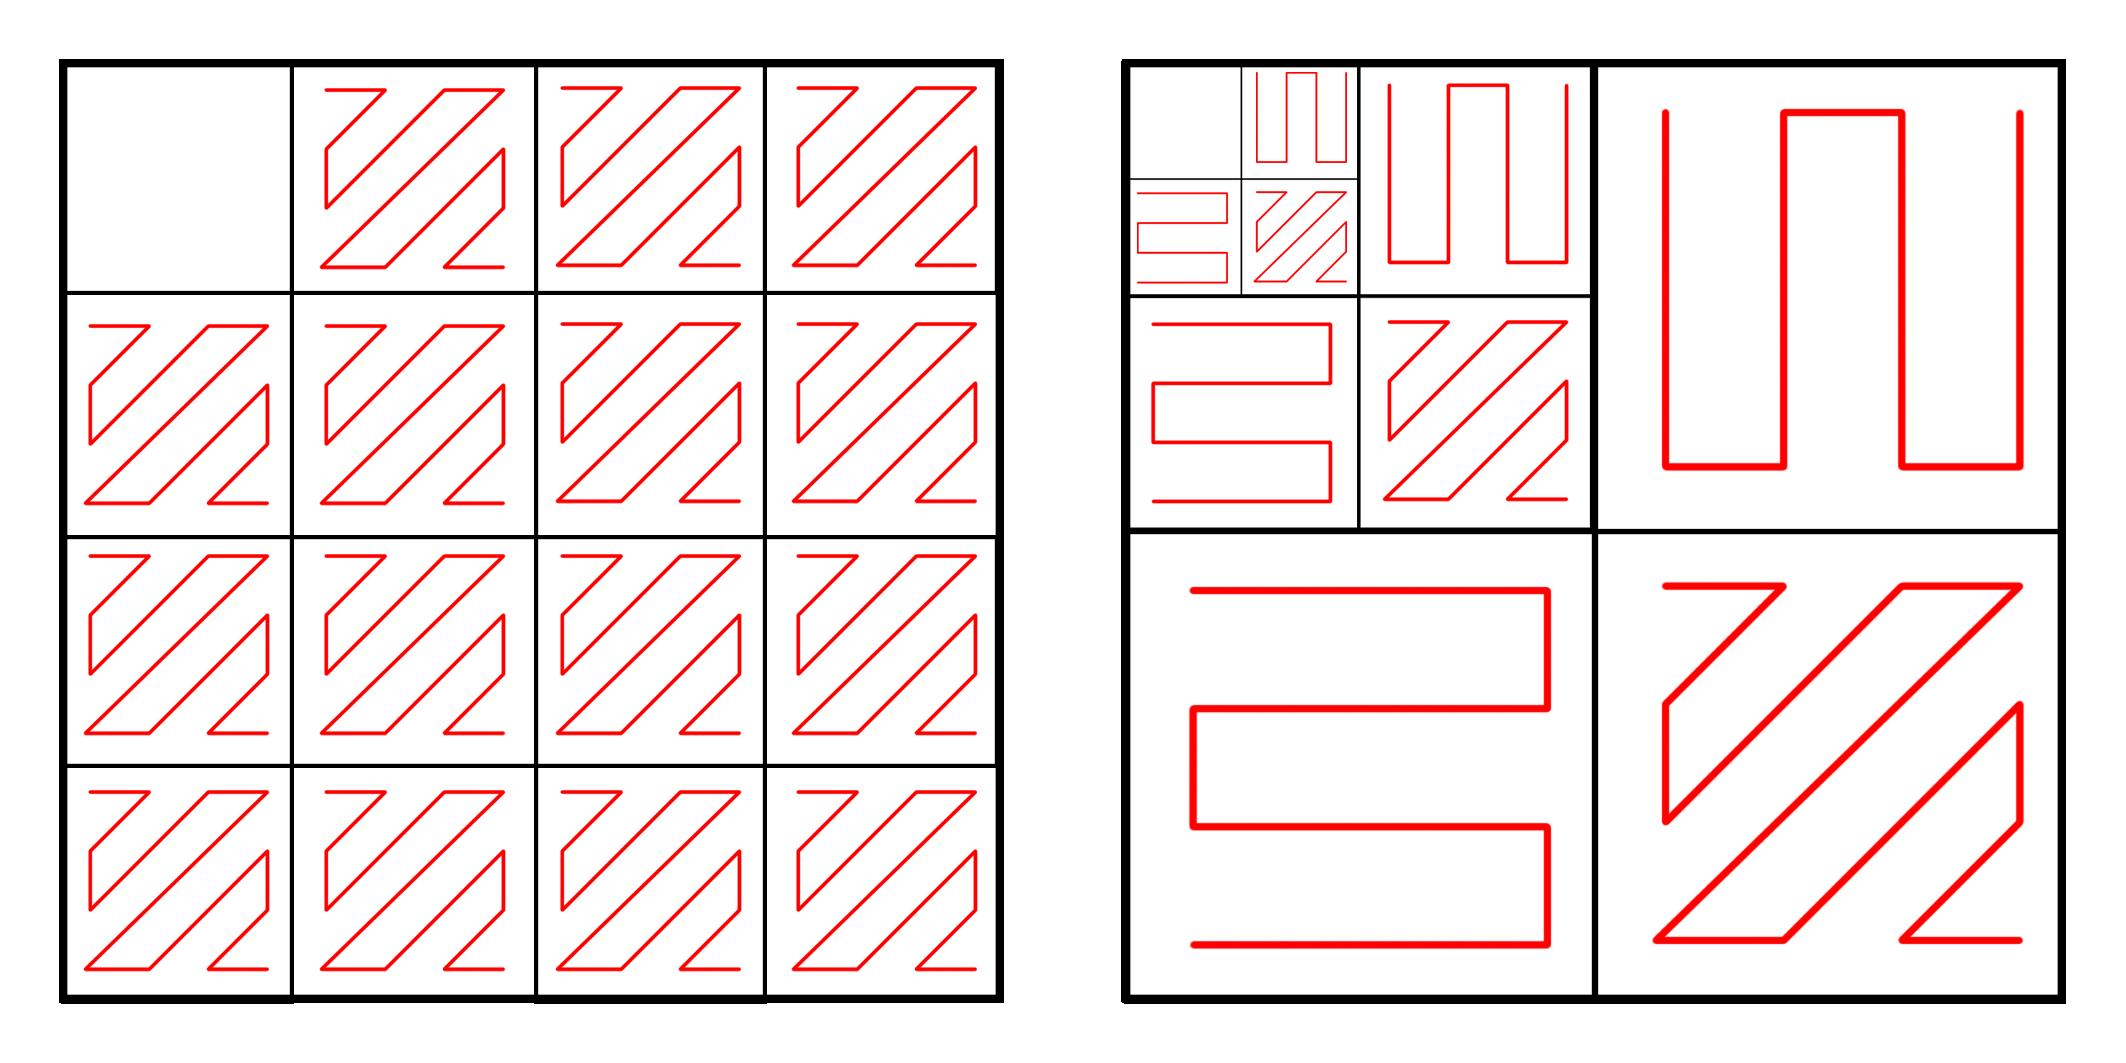
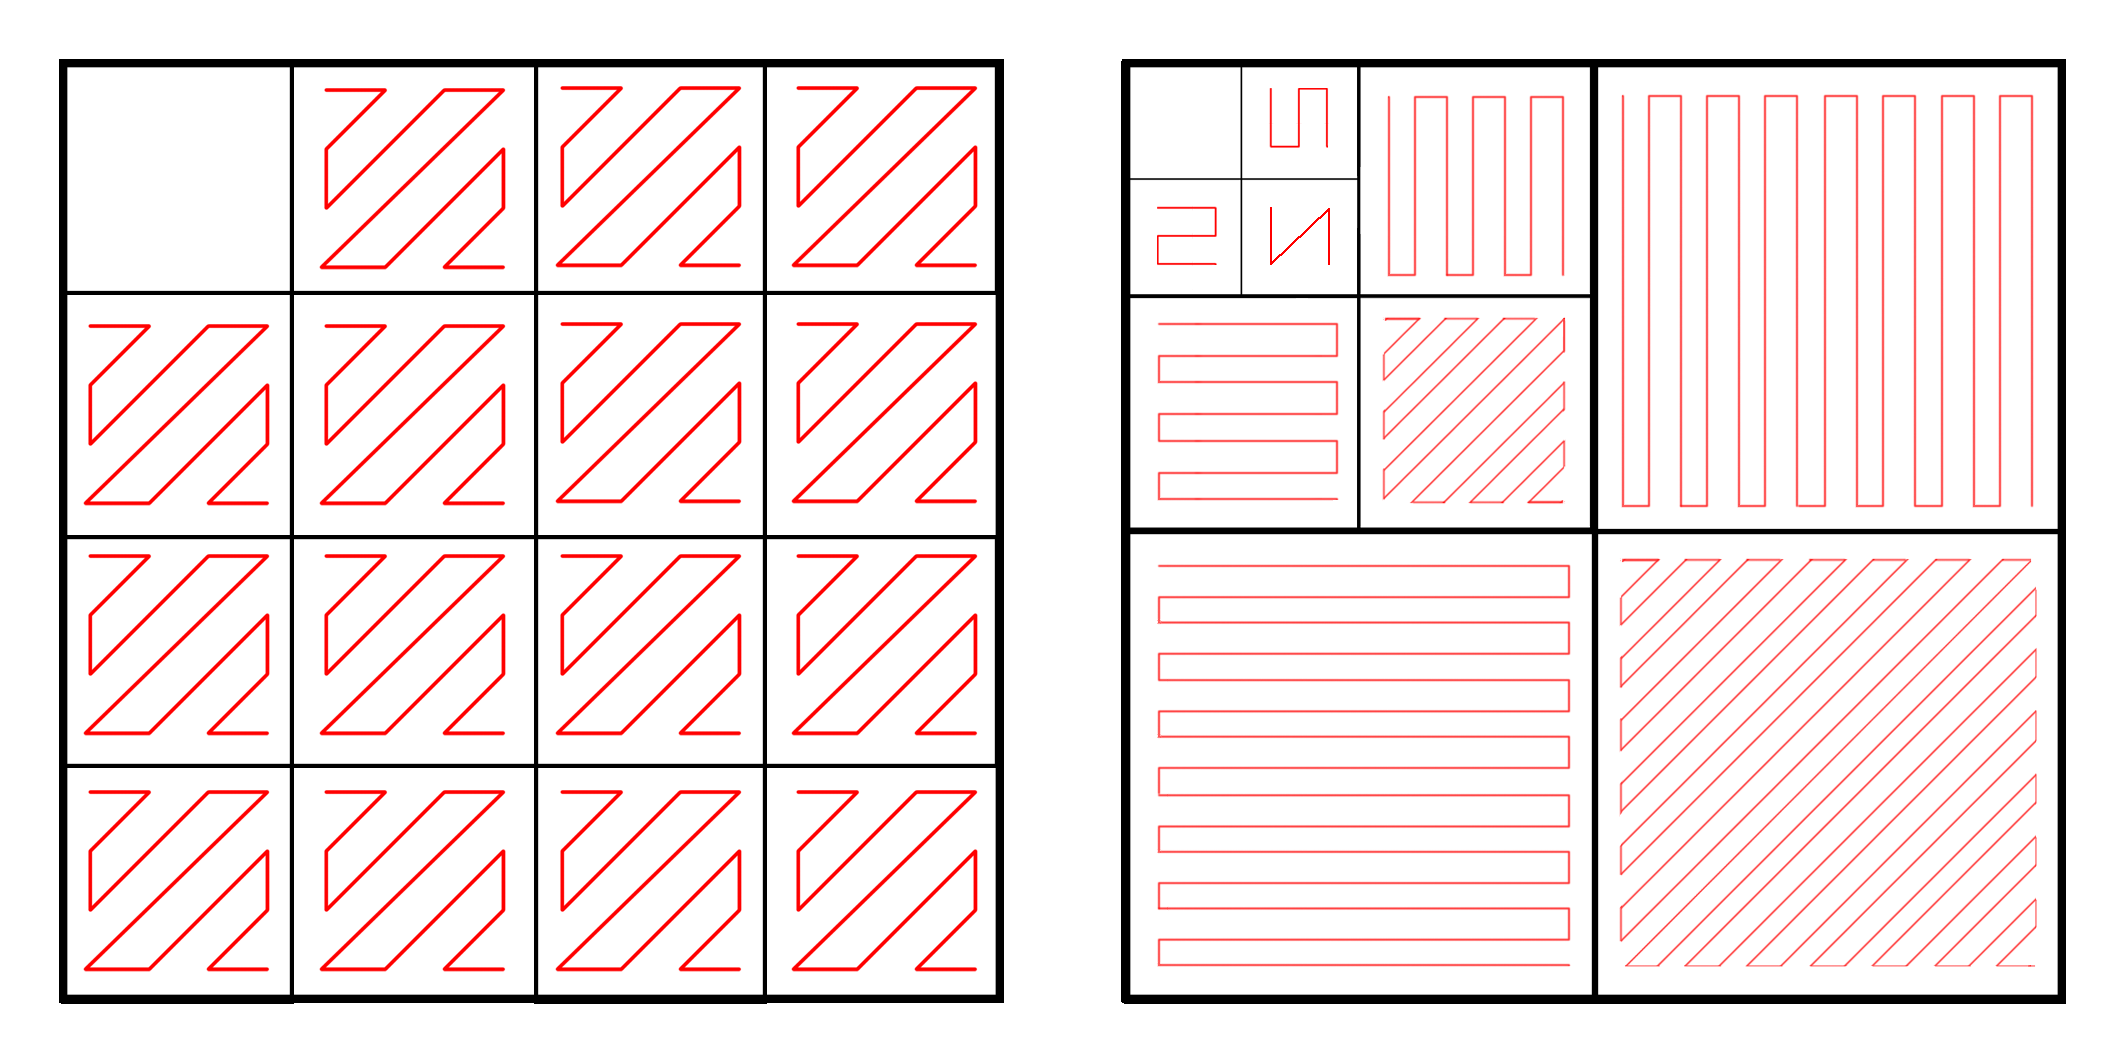
slight fix to dwtscan (improved ssim), improve subblocks

Changed region(s): [[0.5278, 0.0621, 0.9624, 0.4967], [0.5278, 0.5278, 0.9624, 0.9313], [0.5898, 0.0621, 0.6209, 0.1552]]

diff --git a/DWT_experiments.m b/DWT_experiments.m
@@ -172,7 +172,7 @@ m = 2; %number of sub-images
 E = @(s) sum(s(:).^2);
 log2 = @(s) log(s)/log(2);
 S_MAT = [];
-for m = [2]
+for m = [1 2]
     ens = zeros(m,m);
     X_recon = zeros(256,256);
     w = size(X,1)/m;
@@ -184,11 +184,19 @@ for m = [2]
             ens(r,c) = E(X_sub(r,c,:));
         end
     end
-    ens = floor(40960*ens/sum(ens(:)));
+    ens = floor(40960*ens/sum(ens(:)))
     for r = 1:m
         for c = 1:m
             X_s = squeeze(X_sub(r,c,:,:));
-            [~,~,X_recon(1+(r-1)*w:r*w, 1+(c-1)*w:c*w),~,~] = dwt_opt_enc(X_s,N_level,-1,0.5,-1,-1,1,16,ens(r,c));
+            [~,n,X_recon(1+(r-1)*w:r*w, 1+(c-1)*w:c*w),~,~] = dwt_opt_enc(X_s,N_level,-1,0.5,-1,-1,1,16,ens(r,c));
+            %redistribute unused bit allowance to next one
+            if ~(r == m && c == m)
+                if c == m
+                    ens(r + 1, c) = ens(r + 1, c) + (ens(r,c) - n);
+                else
+                    ens(r, c + 1) = ens(r, c + 1) + (ens(r,c) - n);
+                end
+            end    
         end
     end
     S_MAT = [S_MAT ssim(X_recon, X)];

diff --git a/DWT/dwtscan.m b/DWT/dwtscan.m
@@ -14,15 +14,27 @@ s2 = S_c/2;
 scan = [];
 %vertical scan
 for i = 1:N
-    for c = (1+s2):S_c
+    for c = (1+s2):2:S_c
         for r = 1:s2
             scan = [scan v(r,c)];
         end
+        if c~=S_c
+            %and back up
+            for r = s2:-1:1
+                scan = [scan v(r,c+1)];
+            end
+        end
     end
     %horizontal scan
-    for r = (1+s2):S_c
+    for r = (1+s2):2:S_c
         for c = 1:s2
             scan = [scan v(r,c)];
+        end
+        if r~=S_c
+            %and back to the left
+            for c = s2:-1:1
+                scan = [scan v(r+1,c)];
+            end
         end
     end
     %diagonal scan on diagonal details
